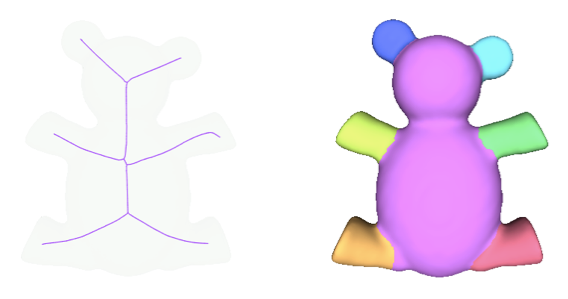
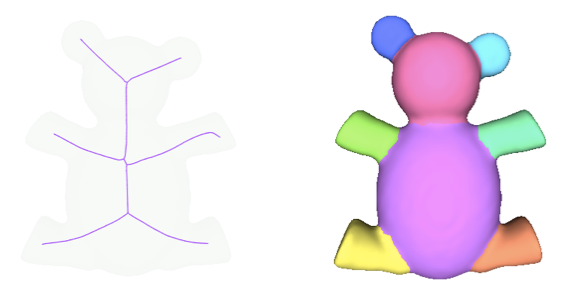
add segmentation example

diff --git a/Mean_curvature_skeleton/examples/Mean_curvature_skeleton/segmentation_example.cpp b/Mean_curvature_skeleton/examples/Mean_curvature_skeleton/segmentation_example.cpp
@@ -1,0 +1,191 @@
+#include <Eigen/Sparse>
+
+#include <CGAL/Polyhedron_3.h>
+#include <CGAL/Polyhedron_items_with_id_3.h>
+#include <CGAL/Simple_cartesian.h>
+#include <CGAL/Eigen_solver_traits.h>
+#include <CGAL/Mean_curvature_skeleton.h>
+#include <CGAL/internal/corefinement/Polyhedron_subset_extraction.h>
+#include <CGAL/IO/Polyhedron_iostream.h>
+#include <CGAL/mesh_segmentation.h>
+
+#include <boost/property_map/property_map.hpp>
+#include <boost/graph/graph_traits.hpp>
+#include <boost/graph/adjacency_list.hpp>
+#include <boost/iterator/transform_iterator.hpp>
+
+#include <fstream>
+#include <map>
+
+template<class PolyhedronWithId, class KeyType>
+struct Polyhedron_with_id_property_map
+    : public boost::put_get_helper<std::size_t&,
+             Polyhedron_with_id_property_map<PolyhedronWithId, KeyType> >
+{
+public:
+    typedef KeyType      key_type;
+    typedef std::size_t  value_type;
+    typedef value_type&  reference;
+    typedef boost::lvalue_property_map_tag category;
+
+    reference operator[](key_type key) const { return key->id(); }
+};
+
+typedef CGAL::Simple_cartesian<double>                               Kernel;
+typedef Kernel::Point_3                                              Point;
+typedef Kernel::Vector_3                                             Vector;
+typedef CGAL::Polyhedron_3<Kernel, CGAL::Polyhedron_items_with_id_3> Polyhedron;
+
+typedef Polyhedron::Facet_iterator                                   Facet_iterator;
+typedef boost::graph_traits<Polyhedron>::vertex_descriptor           vertex_descriptor;
+typedef boost::graph_traits<Polyhedron>::vertex_iterator             vertex_iterator;
+typedef boost::graph_traits<Polyhedron>::edge_descriptor             edge_descriptor;
+
+typedef boost::adjacency_list<boost::vecS, boost::vecS, boost::undirectedS> SkeletonGraph;
+
+typedef boost::graph_traits<SkeletonGraph>::vertex_descriptor          vertex_desc;
+typedef boost::graph_traits<SkeletonGraph>::vertex_iterator            vertex_iter;
+typedef boost::graph_traits<SkeletonGraph>::edge_iterator              edge_iter;
+
+typedef Polyhedron_with_id_property_map<Polyhedron, vertex_descriptor> Vertex_index_map;
+typedef Polyhedron_with_id_property_map<Polyhedron, edge_descriptor>   Edge_index_map;
+
+typedef std::map<vertex_desc, std::vector<int> >                       Correspondence_map;
+typedef boost::associative_property_map<Correspondence_map>            GraphCorrelationPMap;
+
+typedef CGAL::MCF_default_halfedge_graph_pmap<Polyhedron>::type        HalfedgeGraphPointPMap;
+
+typedef std::map<vertex_desc, Polyhedron::Traits::Point_3>             GraphPointMap;
+typedef boost::associative_property_map<GraphPointMap>                 GraphPointPMap;
+
+typedef CGAL::MCF_default_solver<double>::type                         Sparse_linear_solver;
+
+typedef CGAL::MCF_Skeleton<Polyhedron, SkeletonGraph, Vertex_index_map, Edge_index_map,
+GraphCorrelationPMap, GraphPointPMap, HalfedgeGraphPointPMap, Sparse_linear_solver> 
+Mean_curvature_skeleton;
+
+// The input of the skeletonization algorithm must be a pure triangular closed
+// mesh and has only one component.
+bool is_mesh_valid(Polyhedron& pMesh)
+{
+  if (!pMesh.is_closed())
+  {
+    std::cerr << "The mesh is not closed.";
+    return false;
+  }
+  if (!pMesh.is_pure_triangle())
+  {
+    std::cerr << "The mesh is not a pure triangle mesh.";
+    return false;
+  }
+
+  // the algorithm is only applicable on a mesh
+  // that has only one connected component
+  std::size_t num_component;
+  CGAL::Counting_output_iterator output_it(&num_component);
+  CGAL::internal::extract_connected_components(pMesh, output_it);
+  ++output_it;
+  if (num_component != 1)
+  {
+    std::cerr << "The mesh is not a single closed mesh. It has " 
+              << num_component << " components.";
+    return false;
+  }
+  return true;
+}
+
+int main()
+{
+  Polyhedron mesh;
+  std::ifstream input("data/161.off");
+
+  if ( !input || !(input >> mesh) || mesh.empty() ) {
+    std::cerr << "Cannot open data/161.off" << std::endl;
+    return 1;
+  }
+  if (!is_mesh_valid(mesh)) {
+    return 1;
+  }
+
+  SkeletonGraph g;
+  GraphPointMap points_map;
+  GraphPointPMap points(points_map);
+
+  Correspondence_map corr_map;
+  GraphCorrelationPMap corr(corr_map);
+
+  CGAL::SkeletonArgs<Polyhedron> skeleton_args(mesh);
+  
+  CGAL::extract_skeleton(
+      mesh, Vertex_index_map(), Edge_index_map(),
+      skeleton_args, g, points, corr);
+
+  // add segmentation
+  vertex_iterator vb, ve;
+  std::vector<vertex_descriptor> id_to_vd;
+  id_to_vd.clear();
+  id_to_vd.resize(boost::num_vertices(mesh));
+  for (boost::tie(vb, ve) = boost::vertices(mesh); vb != ve; ++vb)
+  {
+    vertex_descriptor v = *vb;
+    id_to_vd[v->id()] = v;
+  }
+
+  // create a property-map for sdf values (it is an adaptor for this case)
+  typedef std::map<Polyhedron::Facet_const_handle, double> Facet_double_map;
+  Facet_double_map internal_sdf_map;
+  boost::associative_property_map<Facet_double_map> sdf_property_map(internal_sdf_map);
+
+  std::vector<double> distances;
+  distances.resize(boost::num_vertices(mesh));
+
+  vertex_iter gvb, gve;
+  for (boost::tie(gvb, gve) = boost::vertices(g); gvb != gve; ++gvb)
+  {
+    vertex_desc i = *gvb;
+    Point skel = points[i];
+    for (size_t j = 0; j < corr[i].size(); ++j)
+    {
+      Point surf = id_to_vd[corr[i][j]]->point();
+      distances[corr[i][j]] = sqrt(squared_distance(skel, surf));
+    }
+  }
+
+  // compute sdf values with skeleton
+  double min_dis = 1e10;
+  double max_dis = -1000;
+  for (Facet_iterator f = mesh.facets_begin(); f != mesh.facets_end(); ++f)
+  {
+    Polyhedron::Halfedge_const_handle he = f->facet_begin();
+    int vid1 = he->vertex()->id();
+    int vid2 = he->next()->vertex()->id();
+    int vid3 = he->next()->next()->vertex()->id();
+    double dis1 = distances[vid1];
+    double dis2 = distances[vid2];
+    double dis3 = distances[vid3];
+    double avg_dis = (dis1 + dis2 + dis3) / 3.0;
+    sdf_property_map[f] = avg_dis;
+    min_dis = std::min(min_dis, avg_dis);
+    max_dis = std::min(max_dis, avg_dis);
+  }
+
+  for (Facet_iterator f = mesh.facets_begin(); f != mesh.facets_end(); ++f)
+  {
+    sdf_property_map[f] = (sdf_property_map[f] - min_dis) / (max_dis - min_dis);
+  }
+
+  postprocess_sdf_values(mesh, sdf_property_map);
+
+  // create a property-map for segment-ids (it is an adaptor for this case)
+  typedef std::map<Polyhedron::Facet_const_handle, int> Facet_int_map;
+  Facet_int_map internal_segment_map;
+  boost::associative_property_map<Facet_int_map> segment_property_map(internal_segment_map);
+
+  // segment the mesh using default parameters for number of levels, and smoothing lambda
+  // Note that you can use your own scalar value, instead of using SDF calculation computed using the CGAL function
+  int number_of_segments = CGAL::segment_from_sdf_values(mesh, sdf_property_map, segment_property_map);
+  std::cout << "Number of segments: " << number_of_segments << std::endl;
+
+  return 0;
+}
+

diff --git a/Polyhedron/demo/Polyhedron/Polyhedron_demo_mean_curvature_flow_skeleton_plugin.cpp b/Polyhedron/demo/Polyhedron/Polyhedron_demo_mean_curvature_flow_skeleton_plugin.cpp
@@ -57,14 +57,14 @@ typedef Polyhedron::Halfedge_around_facet_circulator                Halfedge_fac
 typedef Polyhedron_with_id_property_map<Polyhedron, vertex_descriptor> Vertex_index_map; // use id field of vertices
 typedef Polyhedron_with_id_property_map<Polyhedron, edge_descriptor>   Edge_index_map;   // use id field of edges
 
-typedef boost::adjacency_list<boost::vecS, boost::vecS, boost::undirectedS> Graph;
+typedef boost::adjacency_list<boost::vecS, boost::vecS, boost::undirectedS> SkeletonGraph;
 
-typedef boost::graph_traits<Graph>::vertex_descriptor               vertex_desc;
-typedef boost::graph_traits<Graph>::vertex_iterator                 vertex_iter;
-typedef boost::graph_traits<Graph>::in_edge_iterator                in_edge_iter;
-typedef boost::graph_traits<Graph>::out_edge_iterator               out_edge_iter;
-typedef boost::graph_traits<Graph>::edge_iterator                   edge_iter;
-typedef boost::graph_traits<Graph>::edge_descriptor                 edge_desc;
+typedef boost::graph_traits<SkeletonGraph>::vertex_descriptor               vertex_desc;
+typedef boost::graph_traits<SkeletonGraph>::vertex_iterator                 vertex_iter;
+typedef boost::graph_traits<SkeletonGraph>::in_edge_iterator                in_edge_iter;
+typedef boost::graph_traits<SkeletonGraph>::out_edge_iterator               out_edge_iter;
+typedef boost::graph_traits<SkeletonGraph>::edge_iterator                   edge_iter;
+typedef boost::graph_traits<SkeletonGraph>::edge_descriptor                 edge_desc;
 
 typedef std::map<vertex_desc, std::vector<int> > Correspondence_map;
 typedef boost::associative_property_map<Correspondence_map> GraphCorrelationPMap;
@@ -76,7 +76,7 @@ typedef boost::associative_property_map<GraphPointMap> GraphPointPMap;
 
 typedef CGAL::MCF_default_solver<double>::type Sparse_linear_solver;
 
-typedef CGAL::MCF_Skeleton<Polyhedron, Graph, Vertex_index_map, Edge_index_map,
+typedef CGAL::MCF_Skeleton<Polyhedron, SkeletonGraph, Vertex_index_map, Edge_index_map,
 GraphCorrelationPMap, GraphPointPMap, HalfedgeGraphPointPMap, Sparse_linear_solver> Mean_curvature_skeleton;
 
 typedef Polyhedron::Traits         Kernel;
@@ -333,7 +333,7 @@ private:
 
   Polyhedron *mCopy;
 
-  Graph skeleton_curve;
+  SkeletonGraph skeleton_curve;
   GraphPointMap skeleton_points_map;
 }; // end Polyhedron_demo_mean_curvature_flow_skeleton_plugin
 
@@ -472,6 +472,8 @@ void Polyhedron_demo_mean_curvature_flow_skeleton_plugin::on_actionSegment()
     sdf_property_map[f] = (sdf_property_map[f] - min_dis) / (max_dis - min_dis);
   }
 
+  postprocess_sdf_values(*segment_mesh, sdf_property_map);
+
   // create a property-map for segment-ids (it is an adaptor for this case)
   typedef std::map<Polyhedron::Facet_const_handle, int> Facet_int_map;
   Facet_int_map internal_segment_map;
@@ -482,7 +484,7 @@ void Polyhedron_demo_mean_curvature_flow_skeleton_plugin::on_actionSegment()
   int number_of_segments = CGAL::segment_from_sdf_values(*segment_mesh, sdf_property_map, segment_property_map);
   std::cout << "Number of segments: " << number_of_segments << std::endl;
 
-  for (Polyhedron::Facet_iterator facet_it = segment_mesh->facets_begin();
+  for (Facet_iterator facet_it = segment_mesh->facets_begin();
   facet_it != segment_mesh->facets_end(); ++facet_it)
   {
     // ids are between [0, number_of_segments -1]
@@ -519,7 +521,7 @@ void Polyhedron_demo_mean_curvature_flow_skeleton_plugin::on_actionConvert_to_sk
     time.start();
     QApplication::setOverrideCursor(Qt::WaitCursor);
 
-    Graph g;
+    SkeletonGraph g;
     GraphPointMap points_map;
     GraphPointPMap points(points_map);
 
@@ -541,7 +543,7 @@ void Polyhedron_demo_mean_curvature_flow_skeleton_plugin::on_actionConvert_to_sk
     Scene_polylines_item* skeleton = new Scene_polylines_item();
     skeleton->setColor(QColor(175, 0, 255));
 
-    boost::graph_traits<Graph>::edge_iterator ei, ei_end;
+    boost::graph_traits<SkeletonGraph>::edge_iterator ei, ei_end;
     for (boost::tie(ei, ei_end) = boost::edges(g); ei != ei_end; ++ei)
     {
       std::vector<Point> line;
@@ -596,7 +598,7 @@ void Polyhedron_demo_mean_curvature_flow_skeleton_plugin::on_actionConvert_to_me
     time.start();
     QApplication::setOverrideCursor(Qt::WaitCursor);
 
-    Graph g;
+    SkeletonGraph g;
     GraphPointMap points_map;
     GraphPointPMap points(points_map);
 
@@ -607,13 +609,13 @@ void Polyhedron_demo_mean_curvature_flow_skeleton_plugin::on_actionConvert_to_me
     Scene_polylines_item* skeleton = new Scene_polylines_item();
     skeleton->setColor(QColor(175, 0, 255));
 
-    boost::graph_traits<Graph>::edge_iterator ei, ei_end;
+    boost::graph_traits<SkeletonGraph>::edge_iterator ei, ei_end;
     for (boost::tie(ei, ei_end) = boost::edges(g); ei != ei_end; ++ei)
     {
       std::vector<Point> line;
       line.clear();
-      boost::graph_traits<Graph>::vertex_descriptor sv = boost::source(*ei, g);
-      boost::graph_traits<Graph>::vertex_descriptor tv = boost::target(*ei, g);
+      boost::graph_traits<SkeletonGraph>::vertex_descriptor sv = boost::source(*ei, g);
+      boost::graph_traits<SkeletonGraph>::vertex_descriptor tv = boost::target(*ei, g);
       Point s = points[sv];
       Point t = points[tv];
       line.push_back(s);
@@ -1019,7 +1021,7 @@ void Polyhedron_demo_mean_curvature_flow_skeleton_plugin::on_actionSkeletonize()
   junction_ps->set_selected_color(QColor(51, 255, 204));
   junction_ps->set_selected_diameter(6.0);
 
-  boost::graph_traits<Graph>::vertex_iterator vi;
+  boost::graph_traits<SkeletonGraph>::vertex_iterator vi;
   for (vi = vertices(skeleton_curve).first; vi != vertices(skeleton_curve).second; ++vi)
   {
     int deg = boost::out_degree(*vi, skeleton_curve);

diff --git a/Mean_curvature_skeleton/include/CGAL/Mean_curvature_skeleton.h b/Mean_curvature_skeleton/include/CGAL/Mean_curvature_skeleton.h
@@ -387,7 +387,7 @@ private:
   int max_iterations;
   /** Should the skeleton be medially centered? */
   bool is_medially_centered;
-  /** Are poles computed. */
+  /** Are poles computed? */
   bool are_poles_computed;
 
   /** Cotangent weight calculator. */
